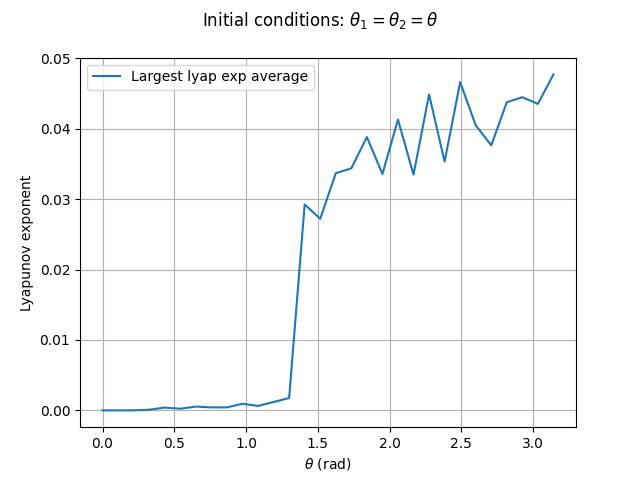
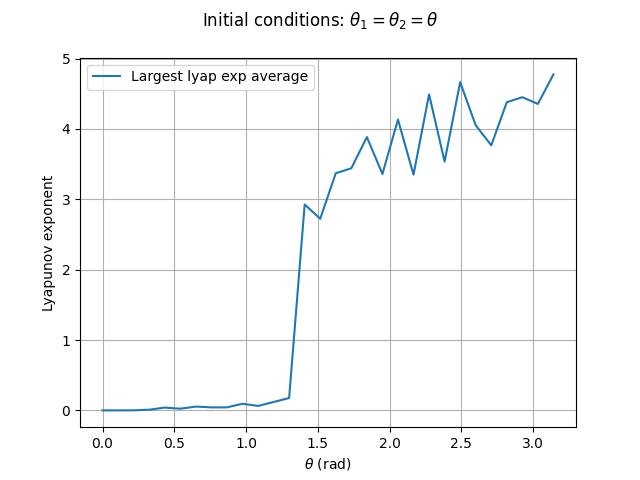
global lyapunov update

diff --git a/Python codes/lyapunov_exponent.py b/Python codes/lyapunov_exponent.py
@@ -1,5 +1,12 @@
 """ 
-This code aims to compute the Lyapunov exponents of the double pendulum system
+This code aims to compute the largest Lyapunov exponents of the double pendulum system
+
+1. Defining the Jacobian matrix
+2. Runge-Kutta 4 for matrices
+
+3. Local Lyapunov exponents
+4. Global Lyapunov exponents
+5. Graphs
 
 """
 
@@ -8,6 +15,12 @@ import numpy as np
 import scipy as sp # For the matrix exponential
 import matplotlib.pyplot as plt
 from tqdm import tqdm # Progression bar
+
+# Latex labels
+lambda_latex = r"$\lambda_{max}$"
+delta_latex = r"$\delta x_0$"
+t_max_latex = r"$t_{max}$"
+t_step_latex = r"$t_{step}$"
 
 # Parameters
 m1 = 1
@@ -18,22 +31,15 @@ g = 9.81
 
 # Time parameters
 t_max = 20
-h = 0.01 
-N = int(np.floor(t_max/h))+1 # about 2000 timesteps
+dt = 0.01 
+N = int(np.floor(t_max/dt))+1 # about 2000 timesteps
 t = np.linspace(0, t_max, N)
 
-# Initial conditions
-w1_0 = 0
-w2_0 = 0
-th1_0 = 1.5
-th2_0 = 0
-u0 = np.array([w1_0, w2_0, th1_0, th2_0])
-
-# Initial delta_x
+# Initial dx
 #dx0 = np.random.rand(4)
 dx0 = np.array([0, 0, 1, 0])
 dx0 = dx0/(np.linalg.norm(dx0)*10**10) # do that norm(dx0) = 10**(-10)
-u0d = u0 + dx0
+dx0 = np.array([0, 0, 10**(-10), 0])
 
 def F_deriv(w1, w2, th1, th2):
     num1 = -g*(2*m1+m2)*np.sin(th1)-m2*g*np.sin(th1-2*th2)-2*np.sin(th1-th2)*m2*(w2**2*l2+w1**2*l1*np.cos(th1-th2))
@@ -47,34 +53,19 @@ def F_deriv(w1, w2, th1, th2):
     
     return np.array([w1_dot, w2_dot, w1, w2])
     
-    
-def solve_RK4(f, u0, h):
+def solve_RK4(f, u0, dt):
     """ Returns : u (4x1 array of last computed values)"""
     u = np.zeros(4)
     u = u0
     for i in range(N - 1):
-        k1 = h * f(u[0], u[1], u[2], u[3])
-        k2 = h * f(u[0] + k1[0]/2, u[1] + k1[1]/2, u[2] + k1[2]/2, u[3] + k1[3]/2)
-        k3 = h * f(u[0] + k2[0]/2, u[1] + k2[1]/2, u[2] + k2[2]/2, u[3] + k2[3]/2)
-        k4 = h * f(u[0] + k3[0], u[1] + k3[1], u[2] + k3[2], u[3] + k3[3])
+        k1 = dt * f(u[0], u[1], u[2], u[3])
+        k2 = dt * f(u[0] + k1[0]/2, u[1] + k1[1]/2, u[2] + k1[2]/2, u[3] + k1[3]/2)
+        k3 = dt * f(u[0] + k2[0]/2, u[1] + k2[1]/2, u[2] + k2[2]/2, u[3] + k2[3]/2)
+        k4 = dt * f(u[0] + k3[0], u[1] + k3[1], u[2] + k3[2], u[3] + k3[3])
         u = u + 1/6 * (k1 + 2*k2 + 2*k3 + k4)
     return u # last computed set of 4 values
 
-u1 = solve_RK4(F_deriv, u0, h)
-u1d = solve_RK4(F_deriv, u0d, h)
-"""
-th1 = u1[:,2] 
-th2 = u1[:,3]
-w1 = u1[:,0]
-w2 = u1[:,1]
-
-th1d = u1d[:,2] 
-th2d = u1d[:,3]
-w1d = u1d[:,0]
-w2d = u1d[:,1]
-"""
-
-def jacobian(th1, th2, w1, w2):
+def jacobian(w1, w2, th1, th2):
     jac = np.zeros((4,4))
    
     jac[0][2] = 1 #dth1/dw1
@@ -90,29 +81,26 @@ def jacobian(th1, th2, w1, w2):
                                                                                    
     return jac
 
-
 def lyapunov(u, dx):
-    """ Computing the local largest lyapunov exponent at t_max, starting from a given u0 and delta_x"""
-    t = 20 # = t_max = 20 sec, chosen arbitrarily according to the spin-up
-    M = jacobian(u[2],u[3],u[0],u[1]) # evaluating the jacobian at the 20th timestep
-    dxf = sp.linalg.expm(M*t) @ dx # solving for delta_x
+    """ Computing lambda_max after t_step seconds, starting from a given u and dx"""
+    t = 20 # = t_step = 20 sec, chosen arbitrarily according to the spin-up
+    J = jacobian(u[0],u[1],u[2],u[3]) # evaluating the jacobian at u
+    dxf = sp.linalg.expm(J*t) @ dx # solving for dx after t seconds
     norm = np.linalg.norm(dxf)
-    lyapf = np.log(norm/np.linalg.norm(dx))*1/N # Lyapunov exponent of the 20th timestep
+    lyapf = np.log(norm/np.linalg.norm(dx))*1/t # Lyapunov exponent after t seconds
     return lyapf, dxf
 
 #-------------------------------------------
 
-# Initial conditions
-dx0 = np.array([0, 0, 1, 0])
-dx0 = dx0/(np.linalg.norm(dx0)*10**10) # norm(dx0) = 10**(-10)
-
 th = np.linspace(0,np.pi,30) # Angle array
 
+# Templates for initial conditions (u_0)
 theta_theta = [np.array([0, 0, th[p], th[p]])  for p in range(30)]
+theta_minustheta = [np.array([0, 0, th[p], -th[p]]) for p in range(30)]
 theta_zero = [np.array([0, 0, th[p], 0]) for p in range(30)]
 zero_theta = [np.array([0, 0, 0, th[p]]) for p in range(30)]
 
-def global_lyaps(u_0, dx0, h, solve_RK4, F_deriv, lyapunov):
+def global_lyaps(u_0, dx0, dt, solve_RK4, F_deriv, lyapunov):
     """Computes the global largest lyapunov exponents for different initial conditions"""
 
     lya_th = np.zeros(30) # "Lyapunov for each angle" array
@@ -123,7 +111,7 @@ def global_lyaps(u_0, dx0, h, solve_RK4, F_deriv, lyapunov):
             u0 = u_0[p]
             lya = np.zeros(50)
             for i in range(50):
-                u1 = solve_RK4(F_deriv, u0, h) # updating th1, th2, w1, w2
+                u1 = solve_RK4(F_deriv, u0, dt) # updating th1, th2, w1, w2
                 lya[i], dx = lyapunov(u0, dx0)
                 u0 = u1 # updating initial conditions
                 dx0 = dx/(np.linalg.norm(dx)*10**10) # Renormalising so that norm(dx0) = 10**(-10)
@@ -131,34 +119,39 @@ def global_lyaps(u_0, dx0, h, solve_RK4, F_deriv, lyapunov):
             lya_th[p] = np.average(lya)
     return lya_th
 
-
 def graph_lyaps(th, lya_th, u_0):
     """ Plots the Lyapunov exponents for different initial conditions"""
 
     if all(np.array_equal(a, b) for a, b in zip(u_0, theta_theta)):
-        title = r"Initial conditions: $\theta_1 = \theta_2 = \theta$"
-        filename = "lyap_theta_theta.png"
+        title = r"Initial conditions: $\theta_{1,0}= \theta_{2,0} = \theta$ ; $\omega_{1,0} = \omega_{2,0} = 0$"
+        filename = "global_lyap_theta_theta.png"
+    elif all(np.array_equal(a, b) for a, b in zip(u_0, theta_minustheta)):
+        title = r"Initial conditions: $\theta_{1,0} = \theta$, $\theta_{2,0} = -\theta$ ; $\omega_{1,0} = \omega_{2,0} = 0$"
+        filename = "global_lyap_theta_minustheta.png"
     elif all(np.array_equal(a, b) for a, b in zip(u_0, theta_zero)):
-        title = r"Initial conditions: $\theta_1 = \theta$, $\theta_2 = 0$"
-        filename = "lyap_theta_zero.png"
+        title = r"Initial conditions: $\theta_{1,0} = \theta$, $\theta_{2,0} = 0$ ; $\omega_{1,0} = \omega_{2,0} = 0$"
+        filename = "global_lyap_theta_zero.png"
     elif all(np.array_equal(a, b) for a, b in zip(u_0, zero_theta)):
-        title = r"Initial conditions: $\theta_1 = 0$, $\theta_2 = \theta$"
-        filename = "lyap_zero_theta.png"
+        title = r"Initial conditions: $\theta_{1,0} = 0$, $\theta_{2,0} = \theta$ ; $\omega_{1,0} = \omega_{2,0} = 0$"
+        filename = "global_lyap_zero_theta.png"
     
     plt.figure()
     plt.plot(th, lya_th, label = "Largest lyap exp average")
     plt.suptitle(title)
     plt.ylabel("Lyapunov exponent")
     plt.xlabel(r"$\theta$ (rad)")
+    plt.text(0.2, 0.7, f"dt = {dt} \n {t_max_latex} = 50*{t_step_latex} = 50*20 \n {delta_latex} = [0,0,1e-10,0]", bbox = dict(facecolor = "white", alpha = 1), horizontalalignment='center', verticalalignment='center', transform=plt.gca().transAxes)
     plt.legend()
     plt.grid()
     plt.savefig(filename)
 
-lyap_theta_theta = global_lyaps(theta_theta, dx0, h, solve_RK4, F_deriv, lyapunov)
-lyap_theta_zero = global_lyaps(theta_zero, dx0, h, solve_RK4, F_deriv, lyapunov)
-lyap_zero_theta = global_lyaps(zero_theta, dx0, h, solve_RK4, F_deriv, lyapunov)
+lyap_theta_theta = global_lyaps(theta_theta, dx0, dt, solve_RK4, F_deriv, lyapunov)
+lyap_theta_minustheta = global_lyaps(theta_minustheta, dx0, dt, solve_RK4, F_deriv, lyapunov)
+lyap_theta_zero = global_lyaps(theta_zero, dx0, dt, solve_RK4, F_deriv, lyapunov)
+lyap_zero_theta = global_lyaps(zero_theta, dx0, dt, solve_RK4, F_deriv, lyapunov)
 
 graph_lyaps(th, lyap_theta_theta, theta_theta)
+graph_lyaps(th, lyap_theta_minustheta, theta_minustheta)
 graph_lyaps(th, lyap_theta_zero, theta_zero)
 graph_lyaps(th, lyap_zero_theta, zero_theta)
 
